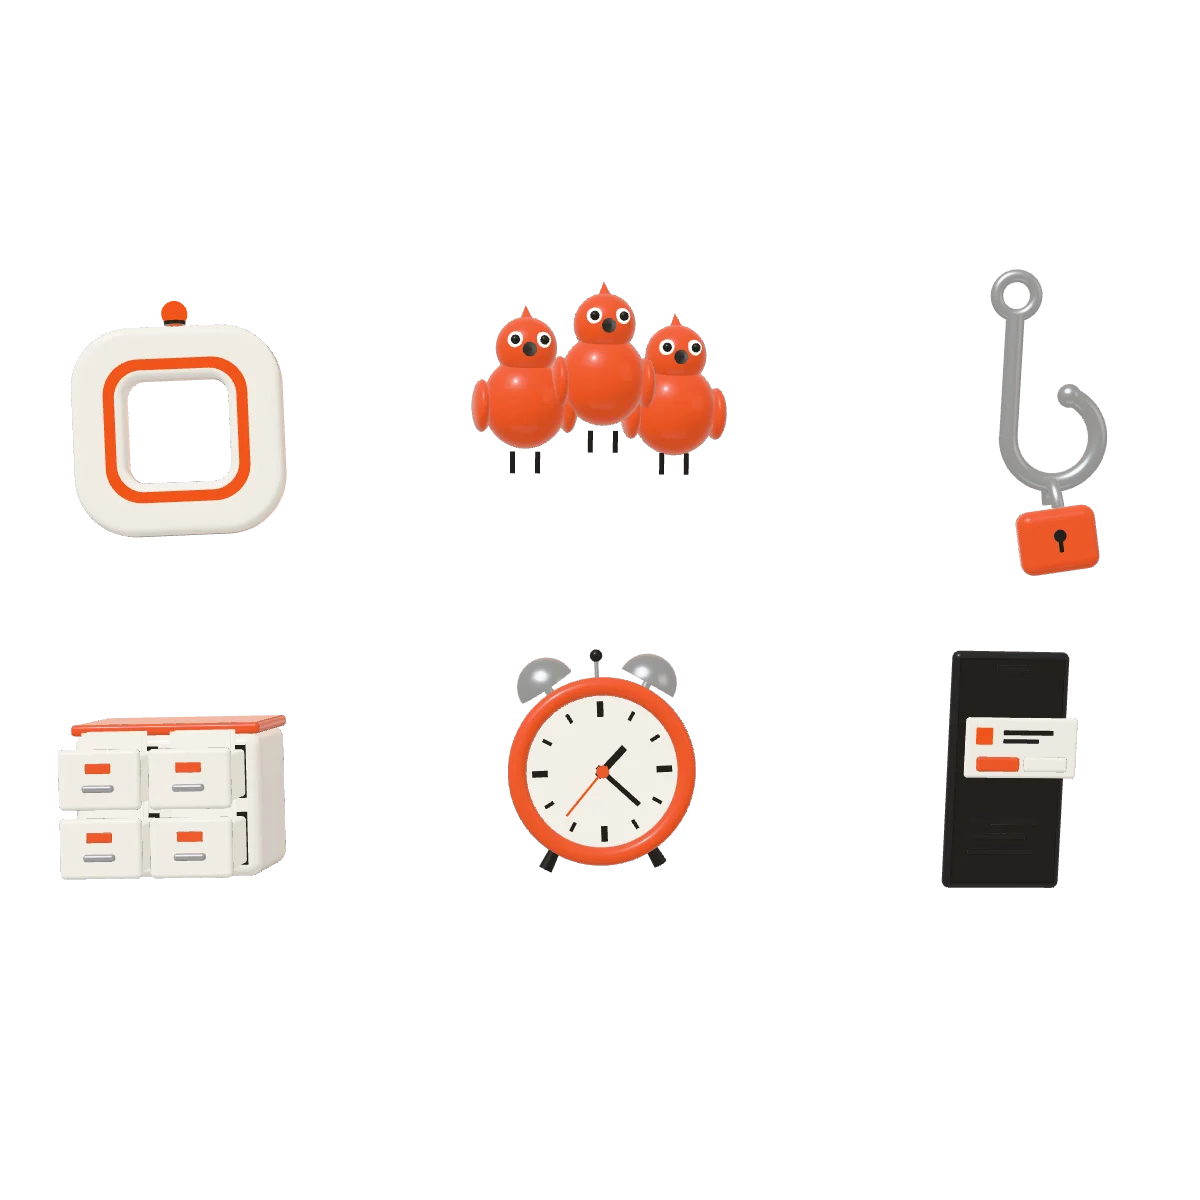
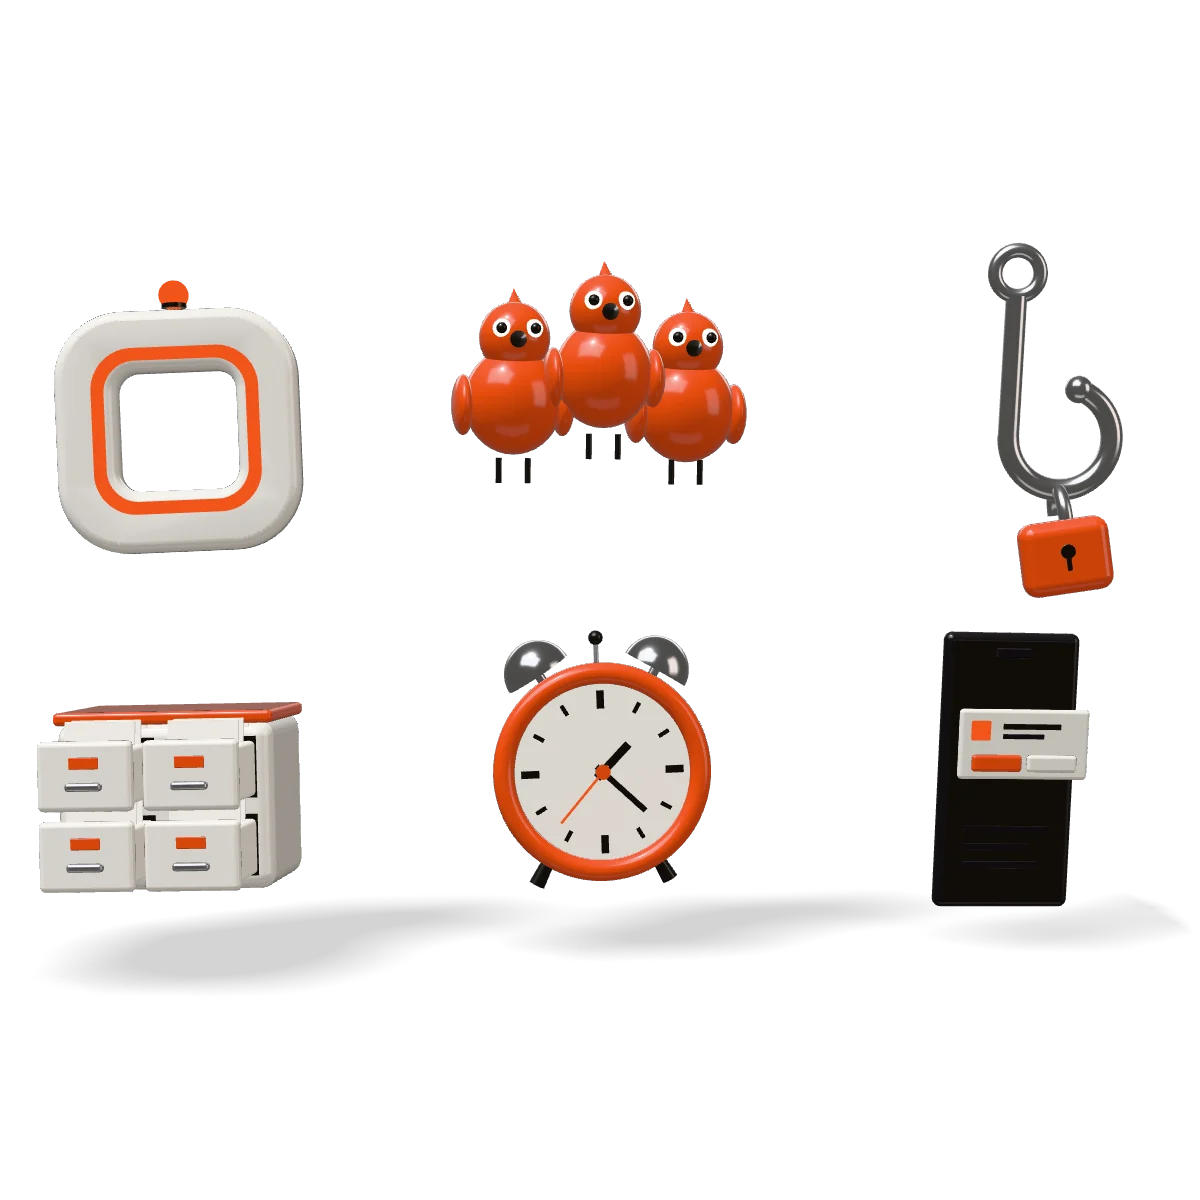
Light the 3D like a product shot and fill the dead space an outside review found
An HDR studio for reflections, glossier ceramic and steel, and soft VSM
shadows on a floor under each floating moment. Desktop hero now holds the
headline in the left column with the gate large on the right and the replies
rising from the lower left. Larger parts, box and envelope; the stamp clears
the frame sooner; the doors lose the handles that read as a plug; bigger
terminal type on phones; the language switch's accessible name contains its
visible label.

Verified: check.mjs passes at 360/390/768/1024/1440 for / and /nl/ on the
local build; no word peeks out of its mask in any scene.

diff --git a/src/stage/stage.js b/src/stage/stage.js
@@ -7,21 +7,23 @@ const FOV = 30;
 const CAM_Z = 14;
 const PORTRAIT = 0.9; // width / height below which portrait frames and layouts apply
 
+// A studio for reflections: a mid-grey room with bright HDR softboxes, so glossy white
+// surfaces show their form (dark falloff, crisp highlights) instead of reading flat.
 function studio(renderer) {
   const s = new THREE.Scene();
-  s.add(new THREE.Mesh(new THREE.SphereGeometry(30, 32, 16), new THREE.MeshBasicMaterial({ color: 0xc4c1bb, side: THREE.BackSide })));
-  const panel = (w, h, c, x, y, z) => {
-    const m = new THREE.Mesh(new THREE.PlaneGeometry(w, h), new THREE.MeshBasicMaterial({ color: c, side: THREE.DoubleSide }));
+  s.add(new THREE.Mesh(new THREE.SphereGeometry(30, 32, 16), new THREE.MeshBasicMaterial({ color: 0x7a7672, side: THREE.BackSide })));
+  const panel = (w, h, c, k, x, y, z) => {
+    const m = new THREE.Mesh(new THREE.PlaneGeometry(w, h), new THREE.MeshBasicMaterial({ color: new THREE.Color(c).multiplyScalar(k), side: THREE.DoubleSide }));
     m.position.set(x, y, z);
     m.lookAt(0, 0, 0);
     s.add(m);
   };
-  panel(18, 10, 0xffffff, -6, 11, 10);
-  panel(10, 8, 0xfff0e4, 13, 3, 6);
-  panel(8, 14, 0xffd5c0, 0, 4, -14);
-  panel(14, 4, 0xf4f4f2, 0, -12, 4);
+  panel(16, 9, 0xffffff, 3.2, -7, 12, 9); // key softbox, top left
+  panel(9, 12, 0xfff1e6, 1.7, 14, 3, 6); // warm fill, right
+  panel(20, 3, 0xffffff, 2.4, 0, 6, -14); // rim strip behind
+  panel(18, 6, 0xeeeae4, 0.9, 0, -13, 5); // floor bounce
   const pm = new THREE.PMREMGenerator(renderer);
-  const tex = pm.fromScene(s, 0.04, 0.1, 100, { size: 128 }).texture;
+  const tex = pm.fromScene(s, 0.03, 0.1, 100, { size: 128 }).texture;
   pm.dispose();
   return tex;
 }
@@ -33,17 +35,29 @@ export async function createStage(canvas, { font, fixedFrame = null, maxDpr = 2 
   renderer.toneMapping = THREE.NeutralToneMapping;
   renderer.toneMappingExposure = 1.02;
   renderer.setClearColor(0x000000, 0);
+  renderer.shadowMap.enabled = true;
+  renderer.shadowMap.type = THREE.VSMShadowMap;
 
   const scene = new THREE.Scene();
   scene.environment = studio(renderer);
   await new Promise((r) => setTimeout(r, 0));
-  scene.add(new THREE.HemisphereLight(0xffffff, 0xd8d2ca, 0.7));
-  const key = new THREE.DirectionalLight(0xffffff, 1.6);
-  key.position.set(-4, 8, 7);
-  scene.add(key);
+  scene.add(new THREE.HemisphereLight(0xffffff, 0xd8d2ca, 0.35));
+  // The key light casts soft shadows onto a floor under whichever moment is on screen.
+  const key = new THREE.DirectionalLight(0xffffff, 2.1);
+  key.castShadow = true;
+  key.shadow.mapSize.set(512, 512);
+  key.shadow.radius = 22;
+  key.shadow.blurSamples = 20;
+  key.shadow.bias = -0.0006;
+  key.shadow.normalBias = 0.02;
+  scene.add(key, key.target);
+  const LIGHT_DIR = new THREE.Vector3(-0.38, 1, 0.42).normalize();
 
   const world = await buildWorld({ font });
   scene.add(world.root);
+  world.root.traverse((o) => {
+    if (o.isMesh && !o.userData.catcher) o.castShadow = !o.material.transparent;
+  });
 
   const camera = new THREE.PerspectiveCamera(FOV, 1, 0.1, 80);
   camera.position.set(0, 0, CAM_Z);
@@ -81,8 +95,25 @@ export async function createStage(canvas, { font, fixedFrame = null, maxDpr = 2 
     return { x: ((v.x + 1) / 2) * width, y: ((1 - v.y) / 2) * height };
   };
 
+  /** Aim the shadow camera at the biggest visible moment. */
+  function aimLight() {
+    let best = null;
+    for (const m of Object.values(world.moments)) if (m.group.visible && (!best || m.group.scale.x > best.group.scale.x)) best = m;
+    if (!best) return;
+    const r = best.radius * best.group.scale.x * 1.5;
+    key.target.position.copy(best.group.position);
+    key.position.copy(best.group.position).addScaledVector(LIGHT_DIR, r * 4);
+    const cam = key.shadow.camera;
+    cam.left = cam.bottom = -r;
+    cam.right = cam.top = r;
+    cam.near = 0.1;
+    cam.far = r * 8;
+    cam.updateProjectionMatrix();
+  }
+
   function renderPose(P, time = 0) {
     world.apply(P, { place: placer(P), time, portrait: portrait() });
+    aimLight();
     renderer.render(scene, camera);
     return P;
   }

diff --git a/src/stage/world.js b/src/stage/world.js
@@ -20,20 +20,28 @@ export async function buildWorld({ font }) {
   const shared = {};
   const root = new THREE.Group();
   const moments = {};
-  const moment = (name, radius) => {
+  const floor = new THREE.ShadowMaterial({ opacity: 0.17, depthWrite: false });
+  const moment = (name, radius, floorY = -0.95) => {
     const g = new THREE.Group();
     root.add(g);
     moments[name] = { group: g, radius };
+    // a floor that shows only the soft shadow of what floats above it
+    const catcher = new THREE.Mesh(new THREE.PlaneGeometry(radius * 2.6, radius * 2.6), floor);
+    catcher.rotation.x = -Math.PI / 2;
+    catcher.position.y = radius * floorY;
+    catcher.receiveShadow = true;
+    catcher.userData.catcher = true;
+    g.add(catcher);
     return g;
   };
 
   // ------------------------------------------------ gate: replies stream in, one gets caught and stamped
-  const G = moment("gate", 2.6);
+  const G = moment("gate", 2.6, -0.78);
   const gate = makeGate(M);
   G.add(gate.group);
   await pause();
   const path = new THREE.CatmullRomCurve3(
-    [[-6.4, -1.1, 2.4], [-4.4, -0.2, 1.6], [-2.6, 0.35, 1.1], [-1.0, 0.12, 0.8], [0, 0, 0.45]].map((p) => new THREE.Vector3(...p)),
+    [[-5.8, -1.75, 2.2], [-4.2, -1.2, 1.6], [-2.5, -0.55, 1.1], [-1.0, -0.12, 0.8], [0, 0, 0.45]].map((p) => new THREE.Vector3(...p)),
   );
   const bubbles = [0, 1, 2, 3, 4].map(() => {
     const b = makeBubble(M, font, shared);
@@ -47,7 +55,7 @@ export async function buildWorld({ font }) {
 
   await pause();
   // ------------------------------------------------ the six parts, clustered, then spread out with labels
-  const X = moment("parts", 3.2);
+  const X = moment("parts", 3.2, -0.62);
   const trio = new THREE.Group();
   const trioBirds = [-0.42, 0, 0.42].map((x) => {
     const b = makeBird(M);
@@ -81,7 +89,7 @@ export async function buildWorld({ font }) {
 
   await pause();
   // ------------------------------------------------ four canaries on a wire, and the fact that fell out of memory
-  const R = moment("wire", 2.3);
+  const R = moment("wire", 2.3, -0.5);
   const wireCurve = new THREE.CatmullRomCurve3([new THREE.Vector3(-2.1, 0.05, 0), new THREE.Vector3(0, -0.14, 0), new THREE.Vector3(2.1, 0.05, 0)]);
   R.add(new THREE.Mesh(new THREE.TubeGeometry(wireCurve, 64, 0.022, 10, false), M.ink));
   for (const x of [-2.1, 2.1]) {
@@ -102,7 +110,7 @@ export async function buildWorld({ font }) {
 
   await pause();
   // ------------------------------------------------ the box: the six parts drop in, the lid closes, a bow on top
-  const B = moment("box", 1.7);
+  const B = moment("box", 1.7, -0.33);
   const box = makeBox(M);
   box.group.position.y = -0.55;
   B.add(box.group);
@@ -117,7 +125,7 @@ export async function buildWorld({ font }) {
 
   await pause();
   // ------------------------------------------------ the envelope
-  const E = moment("mail", 1.85);
+  const E = moment("mail", 1.85, -0.62);
   const mail = makeEnvelope(M);
   E.add(mail.group);
 
@@ -165,7 +173,7 @@ export async function buildWorld({ font }) {
       });
       const k = P.stampK;
       stamp.group.visible = k > 0.001;
-      stamp.group.position.set(lerp(3.4, 0, k), lerp(0.9, 0, k), lerp(2.2, 0.62, k));
+      stamp.group.position.set(lerp(4.6, 0, k), lerp(0.6, 0, k), lerp(2.4, 0.62, k));
       stamp.group.rotation.set(lerp(0.9, Math.PI / 2, k), lerp(-0.9, 0, k), lerp(-0.9, 0, k));
     }
 
@@ -182,7 +190,7 @@ export async function buildWorld({ font }) {
         const [lx, ly] = layout[p.i];
         const [cx, cy, cz] = CLUSTER[p.i];
         p.holder.position.set(lerp(cx, lx, e), lerp(cy, ly, e) + float(p.i, 0.07) * e, lerp(cz, 0, e));
-        p.holder.scale.setScalar(p.scale * (portrait ? 0.64 : 0.76) * lerp(0.62, 1, e));
+        p.holder.scale.setScalar(p.scale * (portrait ? 0.72 : 0.88) * lerp(0.62, 1, e));
         p.holder.rotation.set(float(p.i + 3, 0.06), lerp(TAU * 0.5 + p.i, 0, e) - P.xSpin * 0.6 + float(p.i, 0.12), float(p.i + 1, 0.04));
       });
       const [pGate, , pHook, pDrawers, pClock, pPhone] = parts.map((p) => p.obj);

diff --git a/src/styles.css b/src/styles.css
@@ -169,7 +169,7 @@ p, li { text-wrap: pretty; }
   text-align: left; overflow: hidden;
 }
 .term-bar { display: flex; justify-content: space-between; padding: 12px 18px; font-family: var(--font-mono); font-size: 0.76rem; color: #9b9a94; border-bottom: 1px solid rgba(255, 255, 255, 0.08); }
-.term-body { margin: 0; padding: 16px 18px 20px; font-family: var(--font-mono); font-size: clamp(0.8rem, 0.72rem + 0.32vw, 1rem); line-height: 1.7; white-space: pre-wrap; }
+.term-body { margin: 0; padding: 16px 18px 20px; font-family: var(--font-mono); font-size: clamp(0.86rem, 0.78rem + 0.3vw, 1.02rem); line-height: 1.7; white-space: pre-wrap; }
 .term-line { display: block; }
 .t-prompt { color: var(--color-signal); }
 .t-dim { color: #a3a29c; }
@@ -220,9 +220,9 @@ p, li { text-wrap: pretty; }
   width: calc(var(--fs) / 0.94 * min(100vw, 100svh)); height: auto; max-width: none;
   transform: translate(-50%, -50%);
   transition: opacity 400ms var(--ease);
-  --fx: 0.6; --fy: 0.565; --fs: 0.66;
+  --fx: 0.71; --fy: 0.54; --fs: 0.9;
 }
-@media (max-aspect-ratio: 9/10) { .motion .poster { --fx: 0.6; --fy: 0.555; --fs: 1.3; } }
+@media (max-aspect-ratio: 9/10) { .motion .poster { --fx: 0.6; --fy: 0.545; --fs: 1.36; } }
 .motion .is-live .poster { opacity: 0; }
 .motion .still { display: none; }
 .motion .scene {
@@ -264,11 +264,14 @@ p, li { text-wrap: pretty; }
 .motion #incidents .cards { margin-top: 3svh; flex: 1; min-height: 0; grid-auto-rows: 1fr; }
 .motion .card { display: flex; flex-direction: column; justify-content: center; }
 
-/* hero on wide screens: sentence and button share one row, so the object gets the height */
-@media (min-aspect-ratio: 9/10) and (min-width: 1024px) {
-  .motion #hero .copy-bottom { display: flex; align-items: center; justify-content: center; gap: 32px; }
-  .motion #hero .copy-bottom .sub { margin: 0; text-align: left; max-width: 34ch; }
-  .motion #hero .copy-bottom .actions { margin: 0; }
+/* hero on wide screens: the headline holds the left column, the gate fills the right */
+@media (min-aspect-ratio: 9/10) {
+  .motion #hero { align-items: flex-start; text-align: left; }
+  .motion #hero .copy-top { margin: 0; max-width: min(50vw, 780px); }
+  .motion #hero .display-1 { font-size: clamp(3rem, 6.1vw, 6.4rem); }
+  .motion #hero .copy-bottom { display: flex; align-items: center; gap: 28px; margin-left: 0; max-width: min(50vw, 780px); }
+  .motion #hero .copy-bottom .sub { margin: 0; max-width: 30ch; text-wrap: pretty; }
+  .motion #hero .copy-bottom .actions { margin: 0; justify-content: flex-start; }
 }
 
 @media (prefers-reduced-motion: reduce) {

diff --git a/src/stage/timeline.js b/src/stage/timeline.js
@@ -84,13 +84,13 @@ const on = (keys) => track(keys);
 // Where each 3D moment sits on screen: landscape (L) and portrait (P) frames.
 const FRAMES = {
   gate: {
-    L: frameTrack([[0, { x: 0.6, y: 0.565, s: 0.66 }], [at("hero", 0.7), { x: 0.6, y: 0.565, s: 0.66 }], [at("catch", 0.2), { x: 0.71, y: 0.54, s: 0.98 }]]),
-    P: frameTrack([[0, { x: 0.6, y: 0.555, s: 1.3 }], [at("hero", 0.7), { x: 0.6, y: 0.555, s: 1.3 }], [at("catch", 0.2), { x: 0.5, y: 0.6, s: 1.6 }]]),
+    L: frameTrack([[0, { x: 0.71, y: 0.54, s: 0.9 }], [at("hero", 0.7), { x: 0.71, y: 0.54, s: 0.9 }], [at("catch", 0.2), { x: 0.71, y: 0.54, s: 0.98 }]]),
+    P: frameTrack([[0, { x: 0.6, y: 0.545, s: 1.36 }], [at("hero", 0.7), { x: 0.6, y: 0.545, s: 1.36 }], [at("catch", 0.2), { x: 0.5, y: 0.6, s: 1.6 }]]),
   },
-  parts: { L: hold({ x: 0.55, y: 0.57, s: 0.92 }), P: hold({ x: 0.5, y: 0.585, s: 1.38 }) },
+  parts: { L: hold({ x: 0.56, y: 0.57, s: 1.0 }), P: hold({ x: 0.5, y: 0.585, s: 1.38 }) },
   wire: { L: hold({ x: 0.27, y: 0.56, s: 0.8 }), P: hold({ x: 0.5, y: 0.42, s: 1.0 }) },
-  box: { L: hold({ x: 0.5, y: 0.8, s: 0.54 }), P: hold({ x: 0.5, y: 0.71, s: 1.02 }) },
-  mail: { L: hold({ x: 0.72, y: 0.55, s: 0.86 }), P: hold({ x: 0.5, y: 0.765, s: 1.05 }) },
+  box: { L: hold({ x: 0.5, y: 0.8, s: 0.6 }), P: hold({ x: 0.5, y: 0.69, s: 1.22 }) },
+  mail: { L: hold({ x: 0.72, y: 0.55, s: 0.86 }), P: hold({ x: 0.5, y: 0.75, s: 1.2 }) },
 };
 
 const T_ = {
@@ -104,7 +104,7 @@ const T_ = {
   leadBack: track([[at("catch", 0.6), 0], [at("catch", 0.85), 1]]),
   shut: track([[at("catch", 0.25), 0], [at("catch", 0.32), 1], [at("catch", 0.88), 1], [at("catch", 0.97), 0]]),
   alarm: track([[at("catch", 0.31), 0], [at("catch", 0.35), 1], [at("catch", 0.88), 1], [at("catch", 0.97), 0]]),
-  stampK: track([[at("catch", 0.34), 0], [at("catch", 0.45), 1], [at("catch", 0.5), 1], [at("catch", 0.62), 0]]),
+  stampK: track([[at("catch", 0.34), 0], [at("catch", 0.45), 1], [at("catch", 0.5), 1], [at("catch", 0.57), 0]]),
   mark: track([[at("catch", 0.45), 0], [at("catch", 0.47), 1]]),
   // the six parts
   xOn: on([[at("parts", 0.02), 0], [at("parts", 0.14), 1], [at("parts", 0.9), 1], [at("parts", 1), 0]]),

diff --git a/src/stage/kit.js b/src/stage/kit.js
@@ -10,12 +10,12 @@ export const UNLIT = new THREE.Color(HEX.unlit);
 
 export function materials() {
   return {
-    ceramic: new THREE.MeshPhysicalMaterial({ color: HEX.ceramic, roughness: 0.3, clearcoat: 0.9, clearcoatRoughness: 0.12 }),
+    ceramic: new THREE.MeshPhysicalMaterial({ color: HEX.ceramic, roughness: 0.36, clearcoat: 1, clearcoatRoughness: 0.05 }),
     paper: new THREE.MeshPhysicalMaterial({ color: HEX.paper, roughness: 0.72 }),
-    steel: new THREE.MeshPhysicalMaterial({ color: HEX.steel, metalness: 0.9, roughness: 0.26 }),
+    steel: new THREE.MeshPhysicalMaterial({ color: HEX.steel, metalness: 1, roughness: 0.2 }),
     graphite: new THREE.MeshPhysicalMaterial({ color: HEX.graphite, metalness: 0.35, roughness: 0.34, clearcoat: 0.7, clearcoatRoughness: 0.1 }),
     ink: new THREE.MeshPhysicalMaterial({ color: HEX.ink, roughness: 0.38, clearcoat: 0.6 }),
-    orange: new THREE.MeshPhysicalMaterial({ color: HEX.orange, roughness: 0.28, clearcoat: 1, clearcoatRoughness: 0.08 }),
+    orange: new THREE.MeshPhysicalMaterial({ color: HEX.orange, roughness: 0.32, clearcoat: 1, clearcoatRoughness: 0.04 }),
     rubber: new THREE.MeshPhysicalMaterial({ color: HEX.red, roughness: 0.6 }),
     glow: new THREE.MeshBasicMaterial({ color: HEX.orange, toneMapped: false }),
     white: new THREE.MeshBasicMaterial({ color: 0xffffff, toneMapped: false }),

diff --git a/src/stage/objects.js b/src/stage/objects.js
@@ -20,7 +20,6 @@ export function makeGate(M) {
     d.position.set(sx * 0.81, 0, -0.04);
     g.add(d);
     put(d, rbox(0.81, 1.62, 0.07, 0.025), M.steel, -sx * 0.405, 0, 0);
-    put(d, rbox(0.05, 0.5, 0.02, 0.01), M.ink, -sx * 0.7, 0, 0.045);
     return d;
   });
   // lamp on a stem
